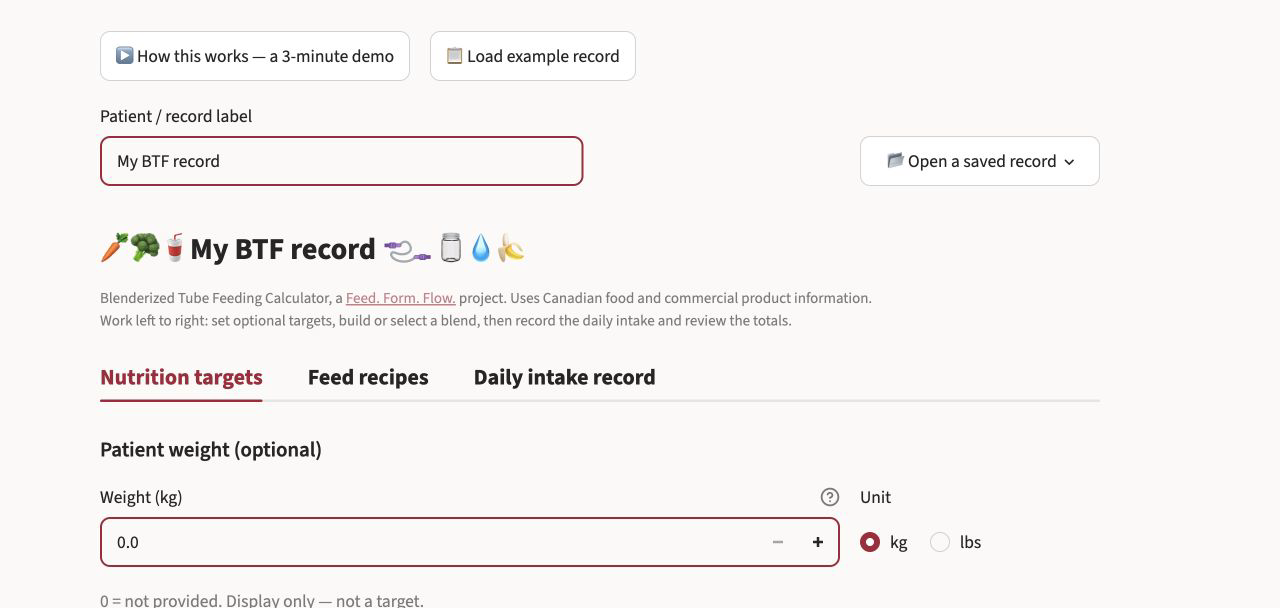
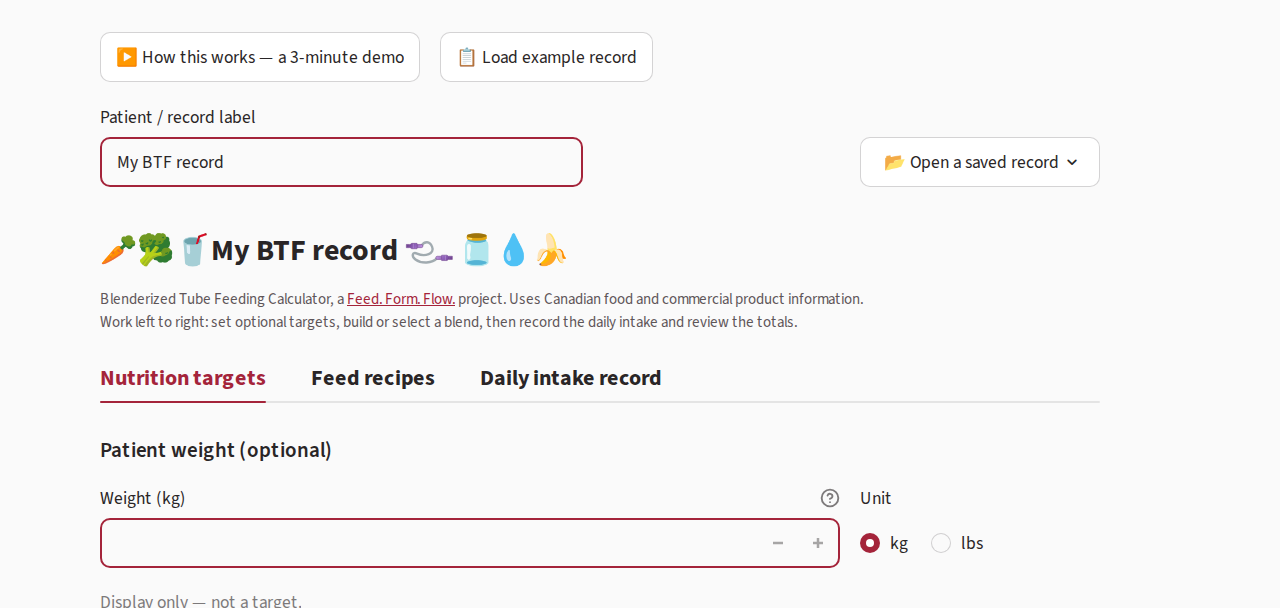
Replace Status with a signed difference; match the Feed. Form. Flow. identity

diff --git a/webapp/styles.css b/webapp/styles.css
@@ -1,3 +1,42 @@
+/* Claret for the active colour scheme (2026-09-28). Streamlit 1.62 does
+   not publish its theme as CSS custom properties, so every
+   var(--primary-color, #A4243A) in this file fell back to the daylight
+   claret, including in dark mode, where it measures 2.60:1 on #0E1117.
+   Defining the variable here lifts the selected tab, input borders, links
+   and scrollbars to #E0708A (6.2:1) in dark mode. It follows the OS
+   setting, so it can disagree with a theme picked by hand in Streamlit's
+   settings menu, the same limitation as the alert accents below. The twin
+   rule is in BTF-Calc's styles.css. */
+:root {
+    --primary-color: #A4243A;
+}
+@media (prefers-color-scheme: dark) {
+    :root {
+        --primary-color: #E0708A;
+    }
+    /* Selected-option chips take the lifted claret as their fill in dark
+       mode; white text on it is 3.06:1, so the text goes dark (6.2:1). */
+    [data-testid="stMultiSelectTagsContainer"] span {
+        color: #0E1117 !important;
+    }
+}
+
+/* The page note under the title (2026-09-28). Streamlit fades a caption
+   with opacity 0.6, which also faded the "Feed. Form. Flow." link to
+   3.1:1 in light mode and 2.9:1 in dark, below the 4.5:1 text minimum.
+   Lifting the opacity on the caption container itself and muting the text
+   with the soft-ink colour instead keeps the note quieter than body text
+   (6.9:1 light, 11:1 dark) while the link returns to full claret. */
+[class*="st-key-pagenote"] [data-testid="stCaptionContainer"] {
+    opacity: 1 !important;
+    color: #5E5558 !important;
+}
+@media (prefers-color-scheme: dark) {
+    [class*="st-key-pagenote"] [data-testid="stCaptionContainer"] {
+        color: #C9BFC2 !important;
+    }
+}
+
 /* Shared clinical-workspace treatment derived from the approved wireframes. */
 /* Match BTF-Calc's readable 20 px base scale, then set each heading tier
    explicitly so the EN page title does not dominate the clinical workspace. */
@@ -341,8 +380,18 @@ html {
     }
 }
 
+/* The one status highlight in either calculator, recorded in the Feed.
+   Form. Flow. visual identity guide. It marks a shortfall against the
+   clinician's own protein goal, which the modulars below can close. No
+   threshold is involved: any shortfall gets it. A shortfall is something
+   to act on, not an error, so it takes the mustard tint rather than
+   claret. The tint is translucent, so it composites over either theme's
+   ground and the text keeps the theme's own colour. */
 .protein-shortfall {
-    color: var(--primary-color, #A4243A);
+    padding: 0.05rem 0.35rem;
+    border-radius: 3px;
+    background: rgba(217, 166, 46, 0.4);
+    color: inherit;
 }
 
 [class*="st-key-reference_row_"] {
@@ -533,6 +582,53 @@ html {
     background: var(--primary-color, #A4243A);
     border: 2px solid transparent;
     border-radius: 999px;
+}
+
+/* Right-edge fade on tables that scroll sideways (author, 2026-09-28).
+   The column order is clinical and does not change; the fade only signals
+   that there is more to the right. On a Mac the scrollbar stays hidden
+   until you scroll, so without it a clipped column looks like the end of
+   the table.
+
+   The fade follows the table's own horizontal scroll position: it shows
+   while there is more to the right and is gone at the right-hand end. A
+   table that fits has no scroll range, so its timeline is inactive and no
+   fade is drawn. Browsers without scroll-driven animations (Firefox at the
+   time of writing) show no fade and are otherwise unaffected. The twin rule
+   lives in the other calculator's styles.css; keep the two in step. */
+@property --table-edge-fade {
+    syntax: "<length>";
+    inherits: false;
+    initial-value: 0px;
+}
+
+@keyframes table-edge-fade {
+    0%,
+    90% {
+        --table-edge-fade: 3rem;
+    }
+    100% {
+        --table-edge-fade: 0px;
+    }
+}
+
+/* Two mask layers: the fading one over the table, and a solid strip over
+   the bottom padding and scrollbar so the scrollbar itself never fades. */
+@supports (animation-timeline: scroll()) {
+    .report-table-wrap {
+        mask-image:
+            linear-gradient(to right, #000 calc(100% - var(--table-edge-fade)), transparent),
+            linear-gradient(#000, #000);
+        mask-size:
+            100% calc(100% - 1.2rem),
+            100% 1.2rem;
+        mask-position:
+            top left,
+            bottom left;
+        mask-repeat: no-repeat;
+        animation: table-edge-fade linear both;
+        animation-timeline: scroll(self inline);
+    }
 }
 
 .report-table {

diff --git a/docs/encalc/index.html b/docs/encalc/index.html
@@ -101,7 +101,9 @@
   <div class="media">
     <div class="shot">
       <figure>
-        <img src="screenshot-assessment.png" width="1280" height="608"
+        <img class="shot-light" src="screenshot-assessment.png" width="1280" height="608"
+             alt="The blank ENCalc Assessment tab, with fields for a record label, measurements and weight history, and tabs for Formulary, Assessment, Enteral nutrition and EN plus Propofol.">
+        <img class="shot-dark" src="screenshot-assessment-dark.png" width="1280" height="608" loading="lazy"
              alt="The blank ENCalc Assessment tab, with fields for a record label, measurements and weight history, and tabs for Formulary, Assessment, Enteral nutrition and EN plus Propofol.">
         <figcaption>Start in Assessment when planning a feed. If a feed is
           already running, go straight to Enteral nutrition and enter the
@@ -142,8 +144,9 @@
         <li>
           <span class="num">1</span>
           <h3>My Formulary</h3>
-          <p>Add the feeds and modulars used at your site. Product values remain
-            editable because labels and local formularies differ.</p>
+          <p>Add the feeds, modulars and oral nutritional supplements used at
+            your site. Product values remain editable because labels and local
+            formularies differ.</p>
         </li>
         <li>
           <span class="num">2</span>
@@ -168,8 +171,10 @@
         </li>
       </ol>
 
-      <p class="note">These steps correspond to the four tabs across the top of
-        the calculator.</p>
+      <p class="note">Steps 1 to 3 are the Formulary, Assessment and Enteral
+        nutrition tabs. When propofol is running, use the EN + Propofol tab in
+        place of Enteral nutrition. Step 4 is at the bottom of whichever of
+        those two tabs you use.</p>
 
       <details>
         <summary>Calculation methods and plan details</summary>

diff --git a/docs/btfcalc/index.html b/docs/btfcalc/index.html
@@ -107,7 +107,9 @@
   <div class="media">
     <div class="shot">
       <figure>
-        <img src="screenshot-landing.png" width="1280" height="608"
+        <img class="shot-light" src="screenshot-landing.png" width="1280" height="608"
+             alt="The blank BTFCalc opening screen, with an optional patient weight field and tabs for Nutrition targets, Feed recipes and Daily intake record.">
+        <img class="shot-dark" src="screenshot-landing-dark.png" width="1280" height="608" loading="lazy"
              alt="The blank BTFCalc opening screen, with an optional patient weight field and tabs for Nutrition targets, Feed recipes and Daily intake record.">
         <figcaption>BTFCalc opens with three tabs: enter optional targets, add
           feed recipes, then record the day.</figcaption>

diff --git a/docs/site.css b/docs/site.css
@@ -263,8 +263,20 @@ h1 {
   width: 100%;
   border: 1px solid var(--rule);
   border-radius: var(--radius);
-  background: #FCFAF9;
+  background: #FAFAFA;
 }
+
+/* Each calculator screenshot has a light and a dark capture, so a dark page
+   does not carry a bright white block. The site's theme control sets
+   data-theme on <html>, so the swap follows the visitor's System, Light or
+   Dark choice rather than only the device setting. */
+.media img.shot-dark {
+  display: none;
+  background: #0E1117;
+}
+
+:root[data-theme="dark"] .media img.shot-light { display: none; }
+:root[data-theme="dark"] .media img.shot-dark { display: block; }
 
 figcaption {
   width: 100%;

diff --git a/webapp/app.py b/webapp/app.py
@@ -8,10 +8,17 @@ storage; clinicians can voluntarily download and later upload a local case file.
 from __future__ import annotations
 
 import re
+from pathlib import Path
 
 import streamlit as st
 
-st.set_page_config(page_title="Adult Inpatient EN Calculator", layout="wide")
+# The Feed. Form. Flow. mark with claret in front, shared with BTF-Calc
+# (2026-09-28). An SVG path keeps its own dark-mode colours.
+st.set_page_config(
+    page_title="Adult Inpatient EN Calculator",
+    page_icon=Path(__file__).resolve().parent / "assets" / "feedformflow-tool-icon.svg",
+    layout="wide",
+)
 
 from assessment_ui import show_assessment
 from case_record_ui import render_case_record_actions, render_footer

diff --git a/docs/SITE_GUIDE.md b/docs/SITE_GUIDE.md
@@ -20,7 +20,7 @@ update the implementation and this guide together.
 The landing pages use plain HTML, CSS and a small amount of vanilla JavaScript,
 with no site generator or client-side framework. `docs/theme.js` and
 `docs/theme.css` supply the shared theme control. `docs/favicon.svg` supplies
-the shared icon. The two `card.png` files are social-sharing images;
+the shared icon (see Favicon below). The two `card.png` files are social-sharing images;
 `docs/_card-source.html` is their editable source and is intentionally excluded
 from search indexing.
 
@@ -89,6 +89,10 @@ theme are not mistaken for differences between page designs.
 
 ## Colour system
 
+The Feed. Form. Flow. visual identity guide is the source of truth for colour
+across the website, both calculators, the Substack and the favicon. This
+section records how the website applies it; change the two together.
+
 Blue and mustard lead the website. Claret connects the site to the calculators
 and supplies a smaller accent. The colours should retain consistent jobs so
 that variety does not become noise.
@@ -99,7 +103,7 @@ that variety does not become noise.
 | Mustard | `#D9A62E` | Structural accent, hero backing plane, section spines, buttons, rules and the BTFCalc card rule |
 | Claret | `#A4243A` | Section numbers, tool names, clinical cautions and limited identity accents |
 | Homepage paper | `#FAFAFA` | Neutral homepage ground |
-| Page ground | `#FAFAFA` | Neutral ground shared by the three static pages |
+| Page ground | `#FAFAFA` | Neutral ground shared by the three static pages and, since 28 September 2026, both calculators |
 | Ink | `#292526` | Main text |
 | Soft ink | `#5E5558` | Supporting text and metadata |
 | Pale blue | `#F3F8FA` | Light ENCalc card and quiet blue backgrounds |
@@ -109,7 +113,8 @@ Mustard works best as a surface, rule or button. It should not be used for body
 text on the light ground because the contrast is weak. Claret should not be
 used for general Writing headings; it belongs to controlled accents and the
 tool identity. When a card has a coloured top rule, the rule should match the
-card's colour family.
+card's colour family. Claret never sits directly on blue: the two are almost
+the same darkness (1.07:1), so mustard or paper goes between them.
 
 The blue foreground hero with a mustard backing plane is the settled homepage
 choice. A mustard foreground made the page read like retail branding, so that
@@ -119,7 +124,26 @@ hero title is intentional.
 `docs/site.css` and `docs/home.css` contain related dark palettes. Their lighter
 blue, warmer mustard and softened claret preserve the same hierarchy on a dark
 ground. The homepage retains its layered hero in dark mode, while the product
-pages retain their quieter flat title panel.
+pages retain their quieter flat title panel. The dark ground `#0E1117` and the
+softened claret `#E0708A` are the same values the calculators use in dark mode.
+
+## Favicon
+
+`docs/favicon.svg` is the Feed. Form. Flow. mark: a slightly rotated blue square
+with a white wave and three dots for the three full stops, the last one
+mustard, over an offset mustard layer and an offset claret layer. Blue is in
+front, mustard in the middle and claret at the back, which extends the
+homepage hero's blue-over-mustard arrangement by one layer. Mustard is the only
+light colour of the three, so it keeps blue and claret apart.
+
+The SVG carries its own dark-mode colours. On a dark tab bar only what fails
+there changes: the blue lifts to `#407694` (3.25:1 against the bar, white marks
+4.96:1 on it) and claret lifts to `#E0708A`. Mustard stays as it is.
+
+Both calculators use the same mark with claret in front as their browser-tab
+icon (`feedformflow-tool-icon.svg` in each app), so the website's tab is blue
+and a calculator's tab is claret. A change to the mark means updating all three
+files.
 
 ## Typography
 
@@ -162,7 +186,8 @@ touch the line.
 
 The tool cards sit side by side on wide screens and stack on narrow screens.
 ENCalc uses a pale blue surface with a blue top rule; BTFCalc uses a pale yellow
-surface with a mustard top rule. Both tool names use claret, and both primary
+surface with a mustard top rule. The alternation is page rhythm rather than
+tool identity, so a third tool's card takes the next colour in the sequence. Both tool names use claret, and both primary
 buttons use mustard. Cards have small rounded corners and a strong rectangular
 shape. They do not move on hover. A single quiet line below the cards states
 that both tools are free to use and require no account or installation. Its
@@ -223,7 +248,9 @@ needs more technical detail.
 Calculator screenshots document the Streamlit product; they do not determine
 the landing page's layout or component styling. Capture the calculator in an
 intentional, identified theme rather than allowing an unnoticed device setting
-to choose the appearance.
+to choose the appearance. Each screenshot has a light capture and a `-dark`
+capture at the same size and framing; `site.css` shows the one that matches
+the page's theme, so retake both whenever the interface changes.
 
 Mustard also marks the product title's lower edge and the footer boundary. The
 masthead has no divider, matching the homepage. The pale blue and pale yellow
